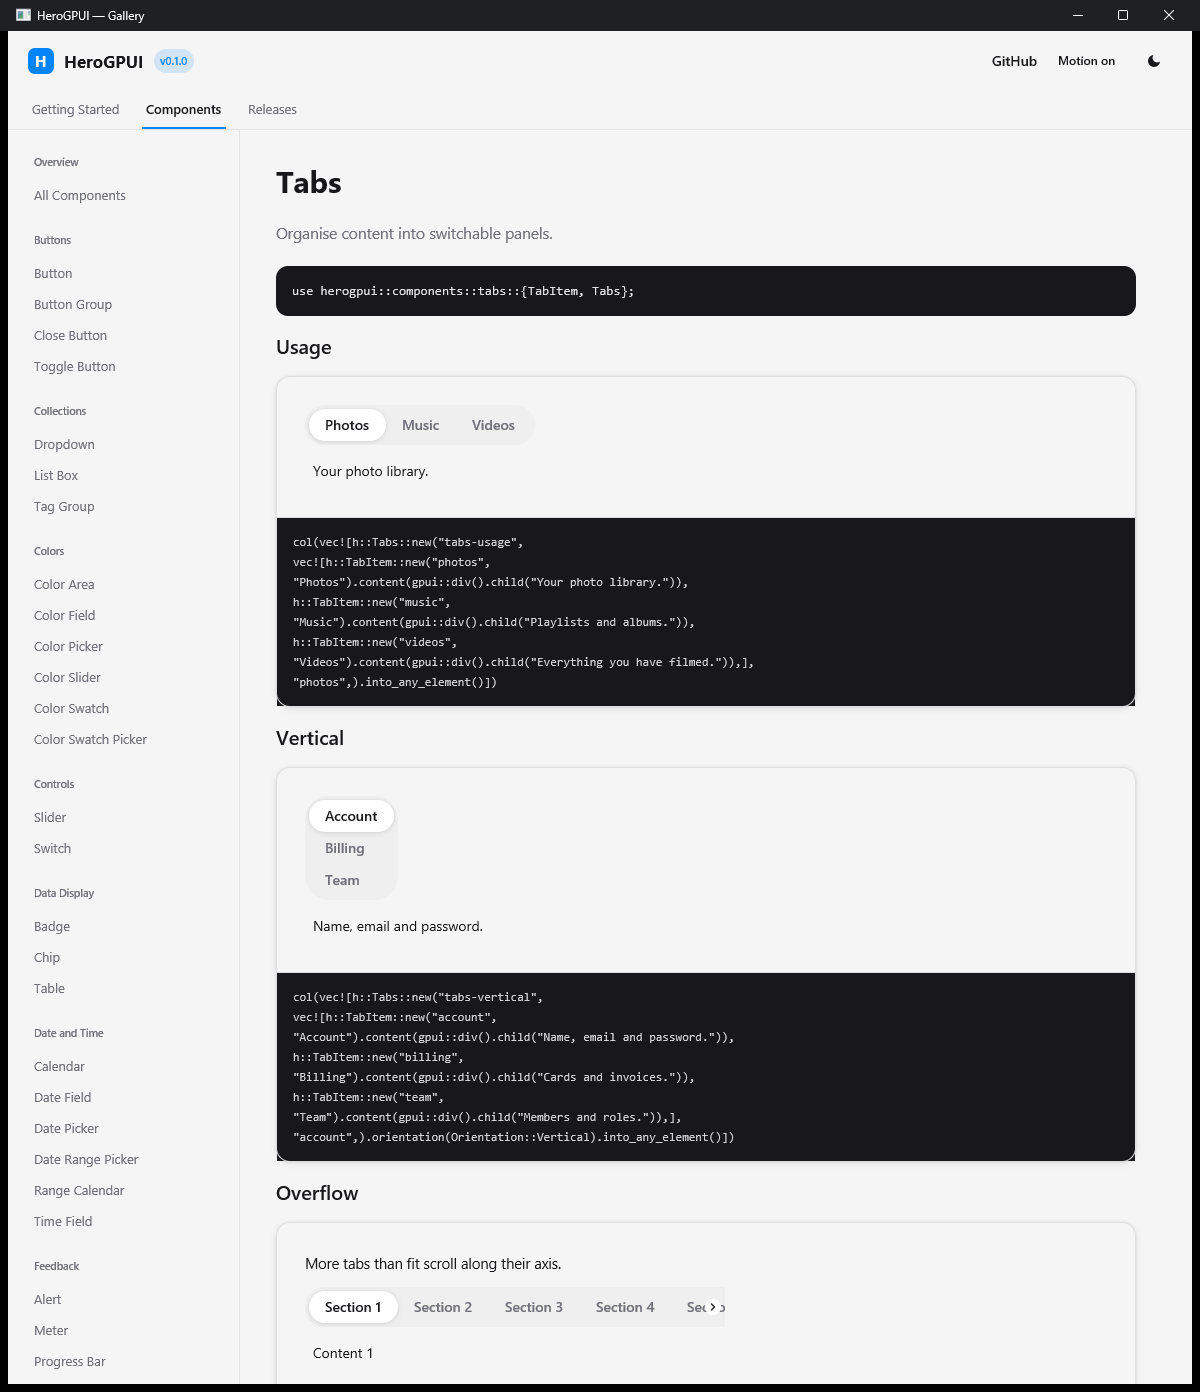
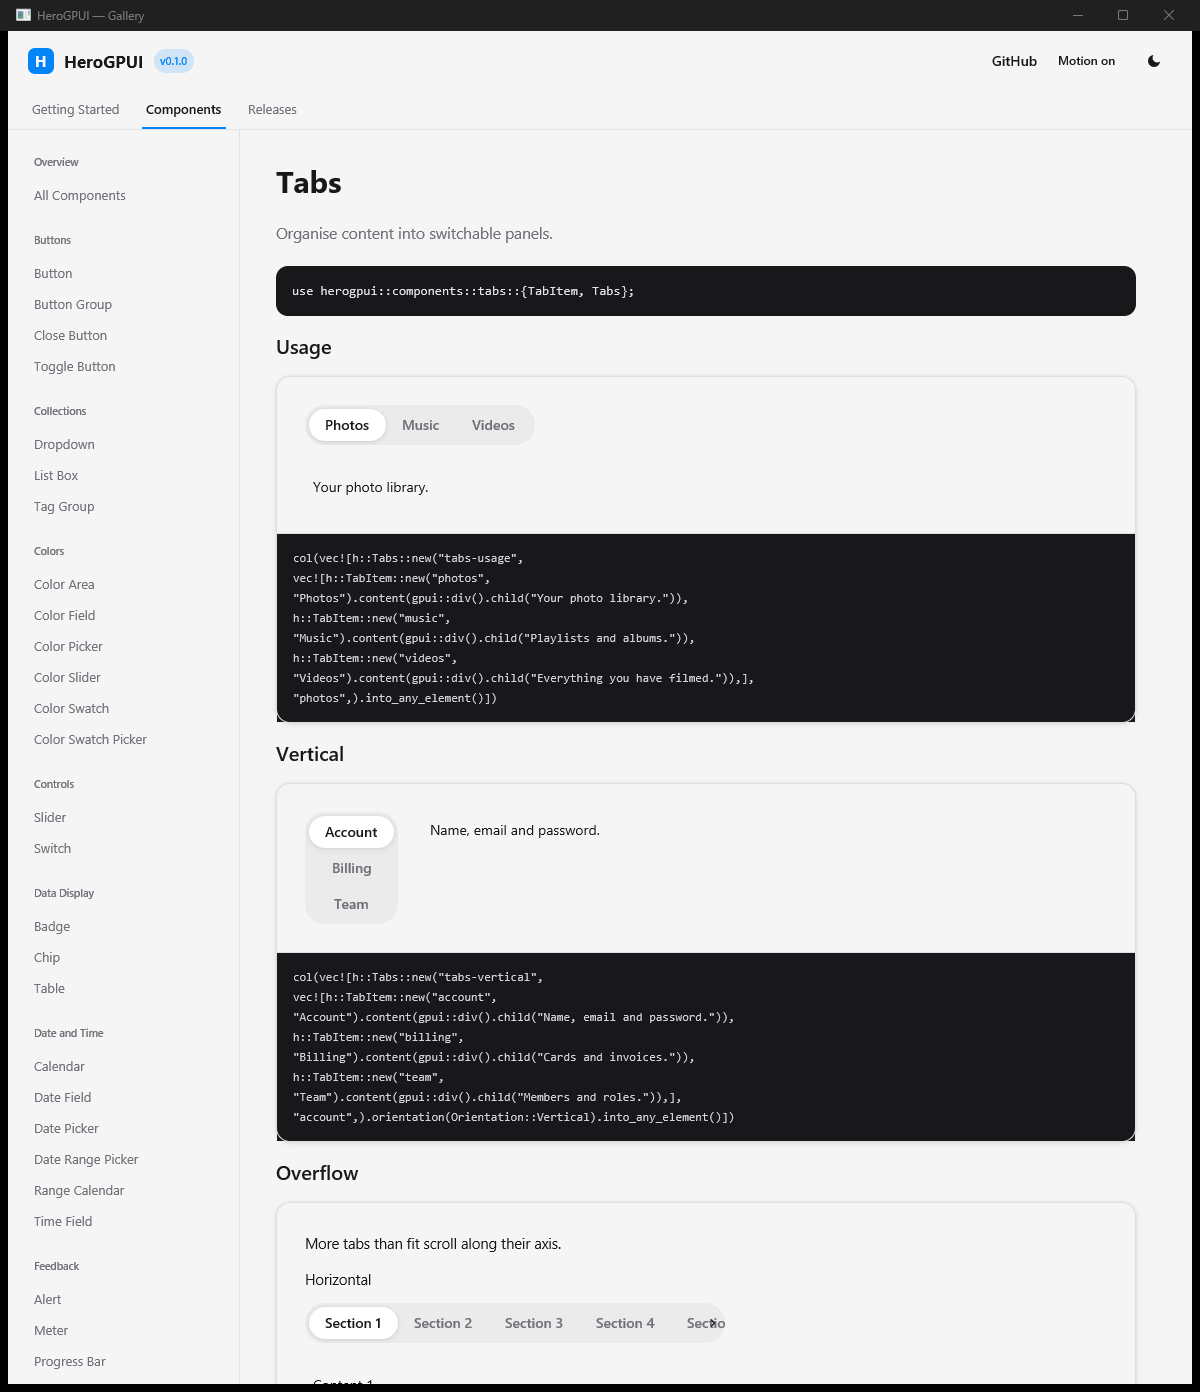
Make vertical Tabs overflow along its axis

diff --git a/crates/herogpui-components/tests/table_tabs_accordion.rs b/crates/herogpui-components/tests/table_tabs_accordion.rs
@@ -49,8 +49,8 @@ use gpui::{
     ScrollWheelEvent, SharedString, TestAppContext, VisualTestContext,
 };
 use herogpui_components::{
-    Accordion, AccordionItem, DisclosureGroup, Pagination, SelectionMode, SortDescriptor,
-    SortDirection, TabItem, Table, TableColumn, Tabs,
+    Accordion, AccordionItem, DisclosureGroup, Orientation, Pagination, SelectionMode,
+    SortDescriptor, SortDirection, TabItem, Table, TableColumn, Tabs,
 };
 
 use harness::{click, events, open_host, press, Events};
@@ -695,6 +695,76 @@ fn tabs_overflow_scroller_chevrons_scroll_the_list(cx: &mut TestAppContext) {
     flush_frame(cx);
     click(cx, starts[3] + 8., 20.);
     assert_eq!(recorded.borrow().as_slice(), ["five", "four"]);
+}
+
+/// Vertical overflow uses the same 80%-of-viewport contract on the y axis.
+/// Ten 32px tabs, nine 4px gaps and 8px list padding make a 364px column in a
+/// 160px viewport; the next chevron scrolls it by 128px, moving tab five's top
+/// from y=148 to y=20. The y=24 probe would miss after the old fixed 120px step.
+#[gpui::test]
+fn tabs_vertical_overflow_chevrons_scroll_the_list(cx: &mut TestAppContext) {
+    let recorded = events();
+    let for_view = recorded.clone();
+    let cx = open_host(cx, move || {
+        let recorded = for_view.clone();
+        gpui::div()
+            .h(px(160.))
+            .child(
+                Tabs::new(
+                    "tb-vertical-overflow",
+                    vec![
+                        TabItem::new("one", "One"),
+                        TabItem::new("two", "Two"),
+                        TabItem::new("three", "Three"),
+                        TabItem::new("four", "Four"),
+                        TabItem::new("five", "Five"),
+                        TabItem::new("six", "Six"),
+                        TabItem::new("seven", "Seven"),
+                        TabItem::new("eight", "Eight"),
+                        TabItem::new("nine", "Nine"),
+                        TabItem::new("ten", "Ten"),
+                    ],
+                    "one",
+                )
+                .orientation(Orientation::Vertical)
+                .on_selection_change(move |key, _, _| {
+                    recorded.borrow_mut().push(key.to_string());
+                })
+                .into_any_element(),
+            )
+            .into_any_element()
+    });
+
+    flush_frame(cx);
+    flush_frame(cx);
+    flush_frame(cx);
+
+    click(cx, 40., 164.);
+    assert!(
+        recorded.borrow().is_empty(),
+        "tab five must start clipped below the vertical viewport"
+    );
+
+    click(cx, 40., 148.);
+    flush_frame(cx);
+    click(cx, 40., 24.);
+    assert_eq!(
+        recorded.borrow().as_slice(),
+        ["five"],
+        "the vertical chevron must move the list by 80% of its viewport"
+    );
+
+    flush_frame(cx);
+    flush_frame(cx);
+    flush_frame(cx);
+    click(cx, 40., 12.);
+    flush_frame(cx);
+    click(cx, 40., 32.);
+    assert_eq!(
+        recorded.borrow().as_slice(),
+        ["five", "one"],
+        "the previous vertical chevron must restore the same viewport-relative step"
+    );
 }
 
 /// Pinned React Aria hands the tab-list scroller to its selectable collection,

diff --git a/gallery/src/pages/components.rs b/gallery/src/pages/components.rs
@@ -8430,6 +8430,7 @@ impl Gallery {
                     "Overflow",
                     col(vec![
                         para("More tabs than fit scroll along their axis.", cx),
+                        para("Horizontal", cx),
                         // The list only overflows inside a bounded box, which is
                         // how v3's own example frames it.
                         gpui::div()
@@ -8447,6 +8448,26 @@ impl Gallery {
                                     .collect(),
                                 "t1",
                             ))
+                            .into_any_element(),
+                        para("Vertical", cx),
+                        gpui::div()
+                            .h(px(200.))
+                            .child(
+                                h::Tabs::new(
+                                    "tabs-overflow-vertical",
+                                    (1..=8)
+                                        .map(|n| {
+                                            h::TabItem::new(
+                                                SharedString::from(format!("v{n}")),
+                                                SharedString::from(format!("Section {n}")),
+                                            )
+                                            .content(gpui::div().child(format!("Content {n}")))
+                                        })
+                                        .collect(),
+                                    "v1",
+                                )
+                                .orientation(Orientation::Vertical),
+                            )
                             .into_any_element(),
                     ]),
                 ),

diff --git a/crates/herogpui-components/src/tabs.rs b/crates/herogpui-components/src/tabs.rs
@@ -1168,13 +1168,13 @@ impl RenderOnce for Tabs {
             .child(
                 gpui::div()
                     .id(gpui::ElementId::Name(format!("{base_id}-scroller").into()))
-                    // A flex box, so the `flex_shrink_0` list inside keeps its
-                    // content width (`w-max`) instead of being stretched to the
-                    // scroller -- a stretched list is never wider than its box
-                    // and never scrolls.
+                    // Match the scroller's flex axis to the list: its
+                    // `flex_shrink_0` then preserves content width horizontally
+                    // and content height vertically. A stretched list never
+                    // exceeds the viewport and therefore never scrolls.
                     .flex()
                     .when(!vertical, |e| e.w_full().overflow_x_scroll())
-                    .when(vertical, |e| e.h_full().overflow_y_scroll())
+                    .when(vertical, |e| e.h_full().flex_col().overflow_y_scroll())
                     .track_scroll(&scroll)
                     .child(list),
             )
@@ -1253,7 +1253,7 @@ impl RenderOnce for Tabs {
         let mut el = gpui::div()
             .track_focus(&recovery_focus)
             .flex()
-            .when(vertical, |root| root.flex_row())
+            .when(vertical, |root| root.flex_row().h_full())
             .when(!vertical, |root| root.flex_col())
             .gap(px(8.))
             .child(container);
